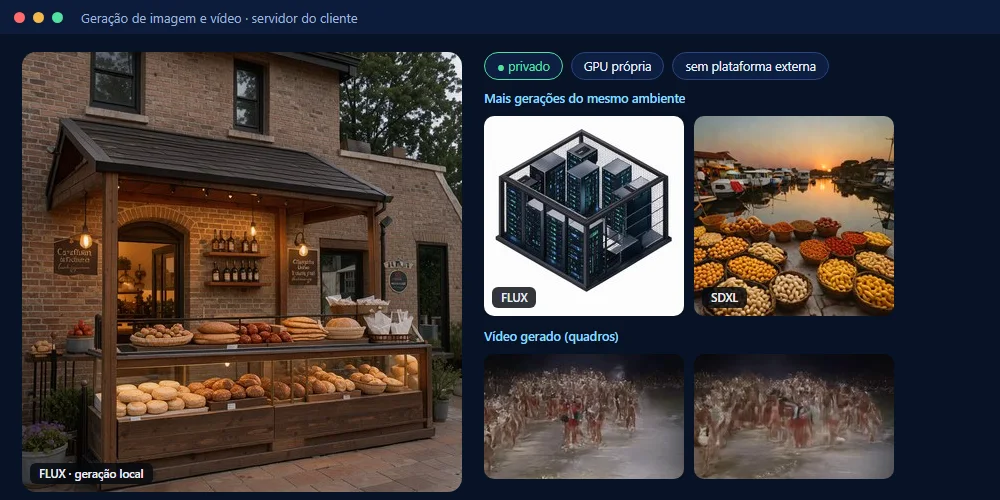
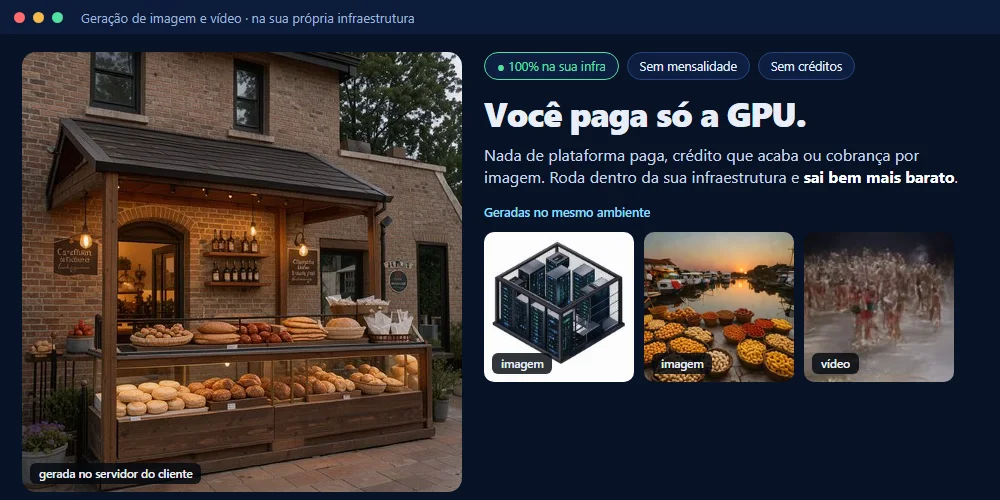
Card de imagem e vídeo: mensagem de infra própria sem plataforma paga; 3D sem a frase do visualizador

Changed region(s): [[0.465, 0.09, 0.961, 0.96], [0.031, 0.9, 0.217, 0.99], [0.248, 0.03, 0.403, 0.06]]

diff --git a/src/data/content.ts b/src/data/content.ts
@@ -73,7 +73,7 @@ export const PROJETOS: Projeto[] = [
   { titulo: 'IA compacta que cabe em máquina pequena', img: 'compacta', frase: 'Versões enxutas do mesmo modelo, que rodam em equipamento barato sem perder qualidade.', grupo: 'ia', motif: 'chip', link: gh('quantization-and-offload-lab') },
   { titulo: 'Voz que ouve e fala', img: 'voz', frase: 'Transcrição de áudio e voz sintética em tempo real.', grupo: 'ia', motif: 'wave', link: gh('voice-stt-tts-bench') },
   { titulo: 'Clonagem de voz e deepfake em tempo real', img: 'deepfake', frase: 'Avatar com o seu rosto e a sua voz para gravar vídeo sem estar na frente da câmera.', grupo: 'ia', motif: 'wave' },
-  { titulo: 'Imagens e vídeos gerados por IA', img: 'imagemia', frase: 'Geração de imagem e de vídeo rodando no seu próprio servidor, sem depender nem pagar plataformas externas.', grupo: 'ia', motif: 'wave', link: gh('image-video-generation-bench') },
+  { titulo: 'Imagens e vídeos gerados por IA', img: 'imagemia', frase: 'Imagem e vídeo gerados por IA na sua própria infraestrutura: sem mensalidade, sem crédito e sem plataforma paga. Você paga só a GPU, e sai bem mais barato.', grupo: 'ia', motif: 'wave', link: gh('image-video-generation-bench') },
   { titulo: 'IA que corrige código', img: 'cursor', frase: 'Acha o problema e abre a correção; a decisão final é de uma pessoa.', grupo: 'ia', motif: 'code' },
   { titulo: 'Assistente de código dentro do editor', img: 'codigo', frase: 'Uma extensão que leva o agente de IA para dentro do editor do programador.', grupo: 'ia', motif: 'code', link: gh('hermes-vscode') },
   { titulo: 'Robôs que usam sites por você', img: 'robos', frase: 'Automação de navegador: preenche, consulta e confere como uma pessoa faria.', grupo: 'automacao', motif: 'flow', link: gh('web-automation-lab') },

diff --git a/src/data/areas.ts b/src/data/areas.ts
@@ -31,8 +31,8 @@ export const AREAS: Record<string, Area> = {
   },
   imagemia: {
     titulo: 'Imagem e vídeo por IA',
-    texto: 'Montamos para você um ambiente privado de geração de imagens e vídeos com IA: roda no seu servidor, sem depender nem pagar plataformas externas, e os seus prompts e imagens não saem da empresa.',
-    feitos: ['Ambientes privados de geração de imagem e de vídeo, na GPU do cliente', 'Geração em lote com o custo por imagem medido', 'Pipelines de vídeo com codificação e entrega automáticas'],
+    texto: 'Montamos para você um ambiente próprio de geração de imagens e vídeos com IA. Nada de plataforma paga, mensalidade ou crédito que acaba: tudo roda dentro da sua infraestrutura, o custo é só o da GPU e sai bem mais barato. Os seus prompts e as suas imagens não saem da empresa.',
+    feitos: ['Ambientes próprios de geração de imagem e de vídeo, na GPU do cliente', 'Geração em lote com o custo por imagem medido', 'Pipelines de vídeo com codificação e entrega automáticas'],
   },
   dados: {
     titulo: 'Engenharia de dados e BI',
